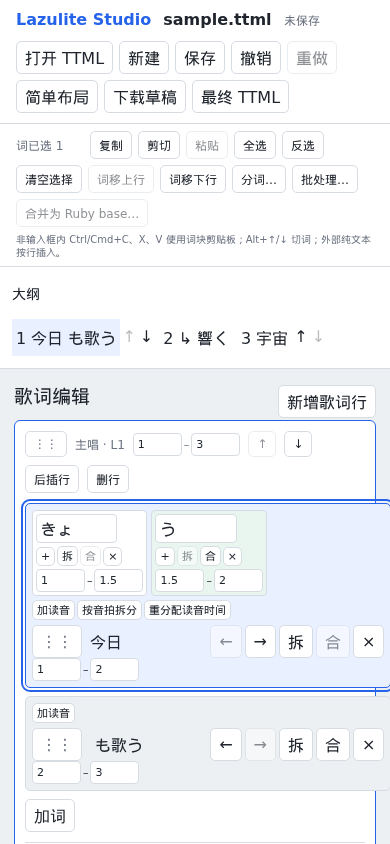
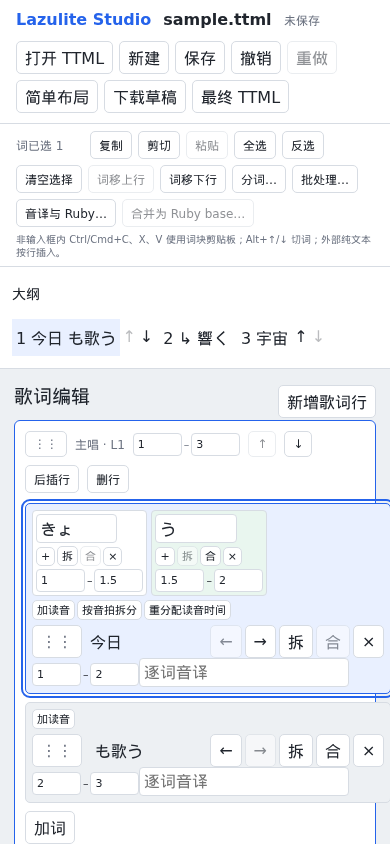
记录 E4 验收并修正移动端预览布局

diff --git a/frontend/src/features/editor/semantic-editor.module.css b/frontend/src/features/editor/semantic-editor.module.css
@@ -86,7 +86,7 @@
 .romanizationPreview { display: grid; gap: 8px; max-height: 45dvh; overflow: auto; }
 .romanizationPreview > div { display: grid; grid-template-columns: minmax(90px, 1fr) minmax(145px, 2fr) minmax(120px, 1fr); gap: 5px 10px; align-items: center; border-top: 1px solid var(--line); padding: 7px 0; }
 .romanizationPreview small { overflow: hidden; text-overflow: ellipsis; white-space: nowrap; }
-.romanizationPreview label { display: flex; align-items: center; gap: 6px; }
+.romanizationPreview label { display: grid; grid-template-columns: max-content minmax(0, 1fr); align-items: center; gap: 6px; }
 .romanizationPreview input { min-width: 0; width: 100%; padding: 5px; border: 1px solid var(--line); border-radius: 4px; background: var(--canvas); color: var(--ink); }
 .romanizationPreview em { grid-column: 1 / -1; color: var(--warning, #b35b18); font-style: normal; }
 @media (max-width: 600px) { .romanizationPreview > div { grid-template-columns: 1fr; } }

diff --git a/docs/editor-parity.md b/docs/editor-parity.md
@@ -1,6 +1,6 @@
 # 歌词编辑器对齐记录
 
-更新：2026-09-25。参考工具固定为本地 `amll-ttml-tool@10b77c7`，Studio 起点为 `2ff3b2c`。本文件按 [实施计划](lyric-editor-implementation-plan.md) 的编号记录；“待验证”表示没有运行操作或取得截图，不能视为通过。
+更新：2026-09-26。参考工具固定为本地 `amll-ttml-tool@10b77c7`，Studio 起点为 `2ff3b2c`。本文件按 [实施计划](lyric-editor-implementation-plan.md) 的编号记录；“待验证”表示没有运行操作或取得截图，不能视为通过。
 
 ## E0 环境与基线
 
@@ -23,13 +23,13 @@
 | ED-01 | `modules/lyric-editor/components/lyric-line-view.tsx`：行词 CRUD、剪贴、多选、拖动 | 共用界面已有行词增删改、拆词、跨行 Ctrl/Cmd 多选和 Shift 范围、全选/反选、内部富词块剪贴板、纯文本粘贴、跨行词移动、词与带背景行拖放排序及 Ctrl 拖动复制；触屏手柄支持排序 | 无时间拆词、ID、Ruby/对齐复制及跨行时间单测；项目和本地浏览器编辑、拖放、剪贴、撤销测试 | E1 基础通过；E2 验收通过 |
 | ED-02 | 词属性、背景/对唱及行附属内容 | 语义模型、codec 与共用界面已覆盖背景、agent、翻译、音译；E2 具备歌手/对唱混合值和一次撤销的批量设置 | [对唱勾选截图](evidence/editor-e0/reference-duet-1440.png)、[关闭后导出](evidence/editor-e0/reference-duet-off.ttml)；三歌手、重叠背景、空拍待测试 | E1 模型通过；E2 界面通过 |
 | SG-01 | `modules/segmentation`：手动/自动/高级分词 | E3 分词面板可点击 grapheme 边界、预览并应用；自动/高级提供当前行、选中、行范围、全文、CJK/西文音节、标点/空白、忽略词与自定义规则；含 Ruby/附属属性词在预览中跳过 | [390px 手动分词](evidence/editor-e3/studio-manual-390.png)、[1440px 高级规则](evidence/editor-e3/studio-advanced-1440.png)；混排、连空格、音节和一次撤销单测及浏览器实操 | E3 已验证；跨词合并仍用手动词操作 |
-| RB-01 | `modules/lyric-editor/tools/RubyEditor.tsx`：读音子块拆合与计时 | 共用界面可编辑、添加、删除 Ruby 及时间；拆分命令已实现，完整 Ruby 工作流归 E4 | [Ruby 可编辑截图](evidence/editor-e0/reference-ruby-editable-1440.png)、[编辑后导出](evidence/editor-e0/reference-ruby-edited.ttml)；语义往返及浏览器闭环 | E1 基础通过；E4 工作流待完成 |
+| RB-01 | `modules/lyric-editor/tools/RubyEditor.tsx`：读音子块拆合与计时 | 主画布有读音单元增删改、光标 F8 拆分、Backspace 合并、按拍分词和时间重分配；相邻词可合成整体 base。音译分配预览支持行/选中/范围/全文、罗马字转假名及已有 Ruby 默认保留；reading 候选可合成连续词 | [E4 验收](editor-e4-acceptance.md)、[390px Ruby](evidence/editor-e4/studio-ruby-390.png)、[390px 音译预览](evidence/editor-e4/studio-romanization-390.png)；词时间、撤销和双工具 TTML 解析 | E4 已验证；精细拖动计时归 E6 |
 | TM-01 | `sync-keybinding.tsx`、`TouchSyncPanel`：连续打轴与导航 | 数值时间编辑及拖动，缺连续游标 | 真实音频键盘打轴及模式切换 | 待实现 |
 | TM-02 | `modules/spectrogram/hooks/useTimelineEditing.ts`：偏移、平滑、链接、拖动 | E3 批处理支持范围时间偏移（含词/Ruby/对齐）、CJK 相邻普通词的阈值平滑、同步行首尾、行尾链接/取消；E6 继续做时间轴拖动与吸附 | [E3 验收](editor-e3-acceptance.md)；负偏移、Ruby 不变、链接草稿往返及浏览器撤销测试 | E3 数值批处理已验证；E6 时间轴待实现 |
 | AU-01 | `modules/audio`、`modules/spectrogram`、`Sidebar/BpmPanel.tsx`：频谱、BPM、试听 | `MediaTransport.tsx` 已有播放、速度、波形、循环 | [10 秒合成音频的展开时间轴](evidence/editor-e0/reference-timeline-1440.png)；10 分钟音频及频谱/BPM 实操待测 | 短音频布局已取；长音频功能待验证 |
 | PV-01 | `components/AMLLWrapper`、预览模式 | 无动态歌词预览 | Ruby/背景/对唱/译文的真实渲染截图 | 待实现 |
 | IO-01 | `modules/ttml-processor`：TTML 导入/导出及多格式菜单 | 两入口共用 `lyric-codec.ts`；TTML 和草稿闭环已验收，其余格式及完整元数据归 E7 | [参考导出](evidence/editor-e0/reference-rich.ttml)→[Studio 导出](evidence/editor-e0/studio-roundtrip.ttml)→参考解析；项目与本地浏览器测试、真实 FastAPI 保存重开 | E1 TTML 闭环通过；E7 格式待完成 |
-| ST-01 | 同一操作事务、输入历史、保存恢复 | `lyric-commands.ts` 256 次有界历史，`useProjectDocument.ts` revision/ETag 串行保存，两个入口使用 v3 检查点；E2 已区分选择、焦点与播放头视觉标记，跨行选择和批量属性共用命令历史 | 保存中继续编辑、冲突及恢复单测；本地恢复、项目保存重开、重排撤销和播放头浏览器测试 | E1 核心通过；E2 验收通过 |
+| ST-01 | 同一操作事务、输入历史、保存恢复 | `lyric-commands.ts` 256 次有界历史，`useProjectDocument.ts` revision/ETag 串行保存，两个入口使用 v4 检查点；选择、焦点与播放头区分显示，E3/E4 的批量修改共用一次撤销 | 保存中继续编辑、冲突及恢复单测；本地恢复、项目保存重开、重排撤销和播放头浏览器测试 | E1 核心通过；E2–E4 回归通过 |
 | UX-01 | 快捷键、IME、弹窗、触屏、变高长列表 | 当前共用界面处理 IME、Alt+↑/↓ 切词、Alt+←/→ 重排、双击/F2 编辑和 Escape 取消；触屏拖放与变高虚拟列表已验收 | 键盘切词、Escape、390px 视口浏览器测试；[2,000 行/20,000 词及触屏验收](editor-e2-acceptance.md) | E2 验收通过 |
 
 ## 已知格式映射
@@ -38,7 +38,7 @@
 | --- | --- | --- |
 | 正文词 | 参考导出在 `p` 内使用定时 `span`，`itunes:key` 为行标识；无单位数字是绝对秒 | 空白归属、无时间词、词 ID 仍待更多样例 |
 | Ruby | `tts:ruby="container"` 下 `base` 与 `textContainer`，后者内多个 `tts:ruby="text"` 定时 span | 整体读音的其他编码及时间继承仍待测 |
-| 翻译/音译 | AMLL 样式为行内 `span ttm:role="x-translation"` / `x-roman`；Apple Music 样式为 head 内 `iTunesMetadata/translations/translation/text[@for]` 与 `transliterations` | 逐词音译仍待测 |
+| 翻译/音译 | AMLL 样式为行内 `span ttm:role="x-translation"` / `x-roman`；Apple Music 样式为 head 内 `iTunesMetadata/translations/translation/text[@for]` 与 `transliterations`；E4 确认逐词音译是后者 `text` 内带绝对时间的 `span`，需输出无前缀的 `iTunesMetadata` 和 `itunes:key` 才能被参考解析器读到 | 无时间逐词音译只能留在 Studio 草稿，最终导出需先定时间 |
 | 背景 | 主 `p` 内 `span ttm:role="x-bg"`，内部词带括号；Apple 样式的容器可无时间，时间从子词推导 | 多背景、歌手及对唱属性仍待测 |
 | 元数据/角色 | `amll:meta key="musicName"/"artists"` 对应标题/艺人；`iTunesMetadata/songwriters/songwriter` 对应作者；`itunes:songPart` 位于 `div`；`ttm:agent` 位于 `p`，参考对唱使用 `v2`、关闭后为 `v1` | 更多字段与重复值顺序仍待测 |
 

diff --git a/docs/editor-e4-acceptance.md b/docs/editor-e4-acceptance.md
@@ -1,0 +1,25 @@
+# E4 Ruby 与音译编辑验收
+
+日期：2026-09-26。结论：**E4 的行内 Ruby、逐词音译、生成预览与读音候选路径已实施并验证**。连续打轴游标归 E5，波形时间轴拖动归 E6。
+
+## 可操作结果
+
+- 主画布在 base 上方显示 Ruby 单元。可以添加、插入、修改、删除，用 F8 在光标处拆分、在单元开头用 Backspace 合并，也可按拍拆分及重新分配 Ruby 时间。选中读音单元会定位到对应词；读音时间与正文词时间保持约束。相邻词可一次合成整体 Ruby base；正文输入末尾的 `|` 打开 Ruby 输入，这是参考工具 `parseRubyShortcut` 的语法。
+- 逐词音译可以在词下直接编辑。“音译与 Ruby…”按当前行、选中词或行、行号范围或全文生成预览。行音译恰好按空格对应词时直接分配；连写日语使用纯假名词作锚点。多个词共用一段读音时显示提示并留空，用户可在预览中修正。罗马字转假名后按拍拆成 Ruby 单元；纯假名词不重复生成，混合 emoji 的 base 提示手动处理。默认保留已有手动 Ruby，勾选后才覆盖。一次应用对应一次撤销。
+- reading 候选仍须与当前 revision/asset 匹配，且文档无未保存修改。候选覆盖连续多个完整词时，应用时先合成整体 base 再添加读音；重叠候选和已有 Ruby/附属属性不会覆盖。
+- 草稿 TTML 用 `studio:romanization` 保存无时间逐词音译；最终 TTML 用参考工具实际导出的 `iTunesMetadata/transliterations/transliteration/text[@for]/span` 结构保存有时间逐词音译。最终导出遇到无时间逐词音译或背景词逐词音译时明确报错，避免静默丢失。
+
+## 验证记录
+
+| 项目 | 结果 |
+| --- | --- |
+| Ruby 拆合、时间端点、整体 base、撤销、假名/罗马字、拗音、促音、长音和 emoji | `frontend/tests/ruby-editing.test.ts`、`frontend/tests/romanization.test.ts` 通过 |
+| 逐词音译双向 TTML | [参考工具导出](evidence/editor-e4/reference-word-roman.ttml)由 Studio 导入并导出为[Studio 文件](evidence/editor-e4/studio-word-roman.ttml)；参考工具 WASM `parseTtml` 重新解析后读到 `kyou/sora` 两个定时词、`きょ/う/そら` 三个 Ruby 单元及原时间；`frontend/tests/lyric-codec.test.ts` 通过 |
+| 画布操作与预览 | Chromium 实操 Ruby 的 Backspace/F8/快捷输入、整体 base，以及行音译预览→生成→最终导出→撤销→重开；[390px 预览截图](evidence/editor-e4/studio-romanization-390.png)、[390px 行内 Ruby](evidence/editor-e4/studio-ruby-390.png) |
+| 阶段回归 | 前端 typecheck、生产构建、59 项单元/集成测试、28 项 Chromium 浏览器测试通过 |
+
+## 使用边界
+
+- 没有明确词间对应关系时，预览要求人工分配读音；不会猜测两个汉字词如何切分同一串假名。手动整体读音不依赖自动假名转换。
+- 生成读音时采用均分拍数的初始时间。精确边界可在 Ruby 时间字段编辑，E5/E6 将提供连续打轴和可拖动时间轴。
+- 本阶段验证了参考工具解析器对 Studio 最终 TTML 的读取；未把完整参考编辑器 UI 中的再次编辑计入已验证结果。

diff --git a/docs/lyric-editor-implementation-plan.md b/docs/lyric-editor-implementation-plan.md
@@ -1,6 +1,6 @@
 # 歌词编辑器重构与 AMLL TTML Tool 对齐计划
 
-日期：2026-09-25。状态：E0–E3 已实施并验证，E4 起待实施。下文“当前实现与限制”表保留计划制定时的 `2ff3b2c` 基线；进度以[E0–E1 验收](editor-e0-e1-acceptance.md)、[E2 验收](editor-e2-acceptance.md)、[E3 验收](editor-e3-acceptance.md)和[对齐矩阵](editor-parity.md)为准。
+日期：2026-09-26。状态：E0–E4 已实施并验证，E5 起待实施。下文“当前实现与限制”表保留计划制定时的 `2ff3b2c` 基线；进度以[E0–E1 验收](editor-e0-e1-acceptance.md)、[E2 验收](editor-e2-acceptance.md)、[E3 验收](editor-e3-acceptance.md)、[E4 验收](editor-e4-acceptance.md)和[对齐矩阵](editor-parity.md)为准。
 
 ## 1. 目标与基线
 
